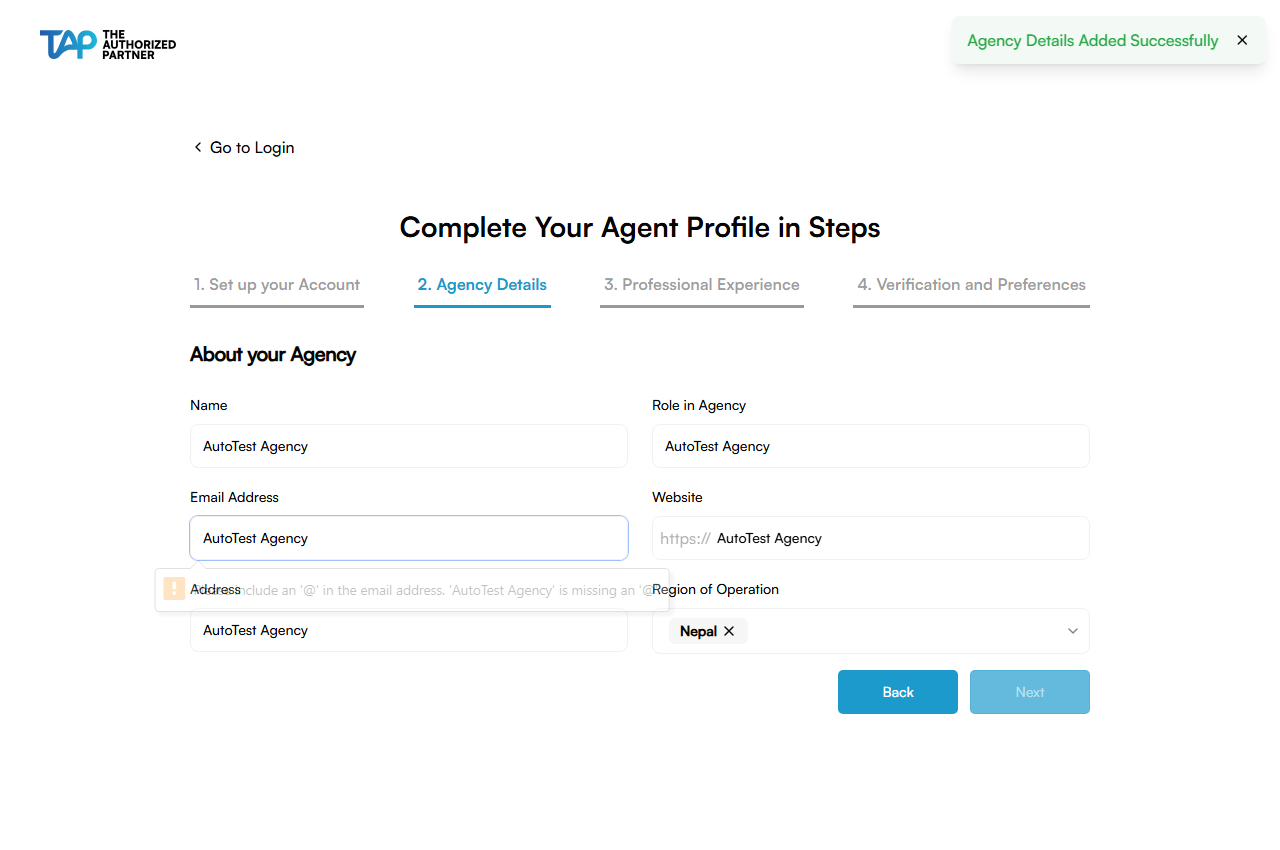
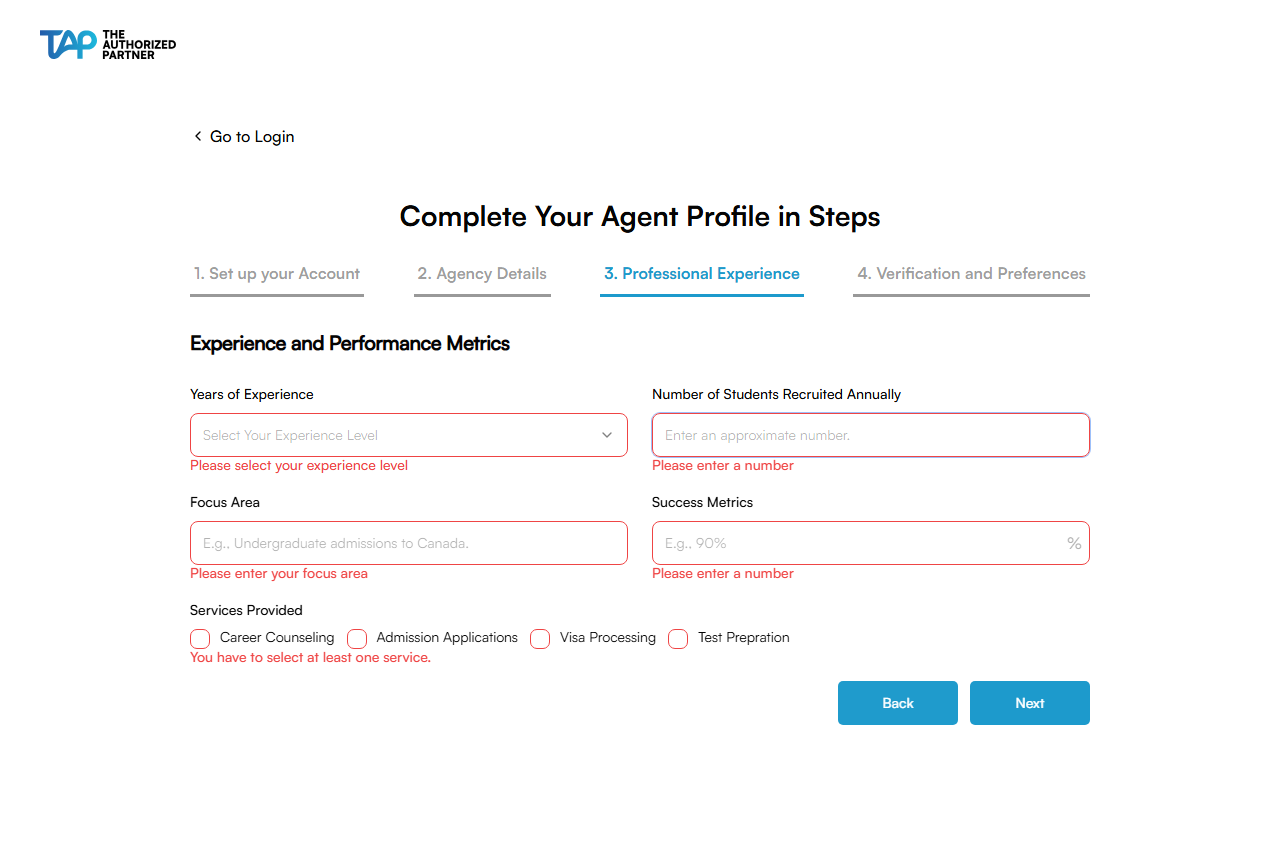
Read me file

diff --git a/README_execution_steps.md b/README_execution_steps.md
@@ -1,0 +1,119 @@
+# Signup Automation – Authorized Partner Portal
+
+## 🔗 Target Site
+`https://authorized-partner.vercel.app/`
+
+---
+
+## 📋 Prerequisites
+
+| Requirement | Version |
+|---|---|
+| Python | 3.9+ |
+| pip | Latest |
+| OS | Windows / macOS / Linux |
+
+---
+
+## ⚙ Setup & Installation
+
+```bash
+# 1. Clone the repo
+git clone <your-repo-url>
+cd <repo-folder>
+
+# 2. (Optional but recommended) Create a virtual environment
+python -m venv venv
+source venv/bin/activate        # Linux/macOS
+venv\Scripts\activate           # Windows
+
+# 3. Install dependencies
+pip install playwright
+
+# 4. Install Chromium browser driver
+python -m playwright install chromium
+```
+
+---
+
+## ▶ Running the Script
+
+```bash
+python signup_automation_script.py
+```
+
+The script will:
+1. Open the site homepage
+2. Locate and click the Sign Up / Register link
+3. Fill all form fields across every signup step automatically
+4. Handle checkboxes (terms & conditions, consent)
+5. Submit each page and detect the success state
+6. Save screenshots at every step inside a `screenshots/` folder
+
+---
+
+## 🧪 Test Data Used
+
+| Field | Value |
+|---|---|
+| First Name | Test |
+| Last Name | User |
+| Email | `testuser_<random>@mailinator.com` (randomised each run) |
+| Password | `Test@1234!` |
+| Phone | `+9779800000000` |
+| Company | AutoTest Agency |
+| Country | Nepal |
+| City | Kathmandu |
+
+> Emails use [Mailinator](https://www.mailinator.com/) — a free, disposable inbox — so no real account is needed. Check `https://www.mailinator.com/v4/public/inboxes.jsp?to=testuser_<generated-part>` for any verification emails.
+
+---
+
+## 📁 Project Structure
+
+```
+.
+├── signup_automation_script.py   # Main automation script
+├── README_execution_steps.md     # This file
+├── test_report.pdf               # (generated after a run, optional)
+└── screenshots/                  # Auto-created; one PNG per step
+    ├── 00_homepage.png
+    ├── 01_signup_page.png
+    ├── step_1_before.png
+    ├── step_1_after.png
+    └── ...
+```
+
+---
+
+## 🛠 Framework & Versions
+
+| Tool | Version |
+|---|---|
+| **Language** | Python 3.9+ |
+| **Framework** | [Playwright for Python](https://playwright.dev/python/) |
+| **Browser** | Chromium (installed via `playwright install chromium`) |
+| **Playwright** | 1.40+ (`pip show playwright`) |
+
+---
+
+## 🔧 Customising Test Data
+
+Open `signup_automation_script.py` and edit the `TEST_DATA` dictionary near the top:
+
+```python
+TEST_DATA = {
+    "first_name": "Your Name",
+    "email":      "your@email.com",
+    ...
+}
+```
+
+---
+
+## 📌 Notes
+
+- The script runs **headless** by default (no visible browser window).  
+  To watch it run, change `headless=True` → `headless=False` in the script.
+- Screenshots are saved automatically so you can review each step without watching the browser.
+- The form-field selectors use broad patterns (`name`, `placeholder`, `id` matching) so the script adapts if field names change slightly.
